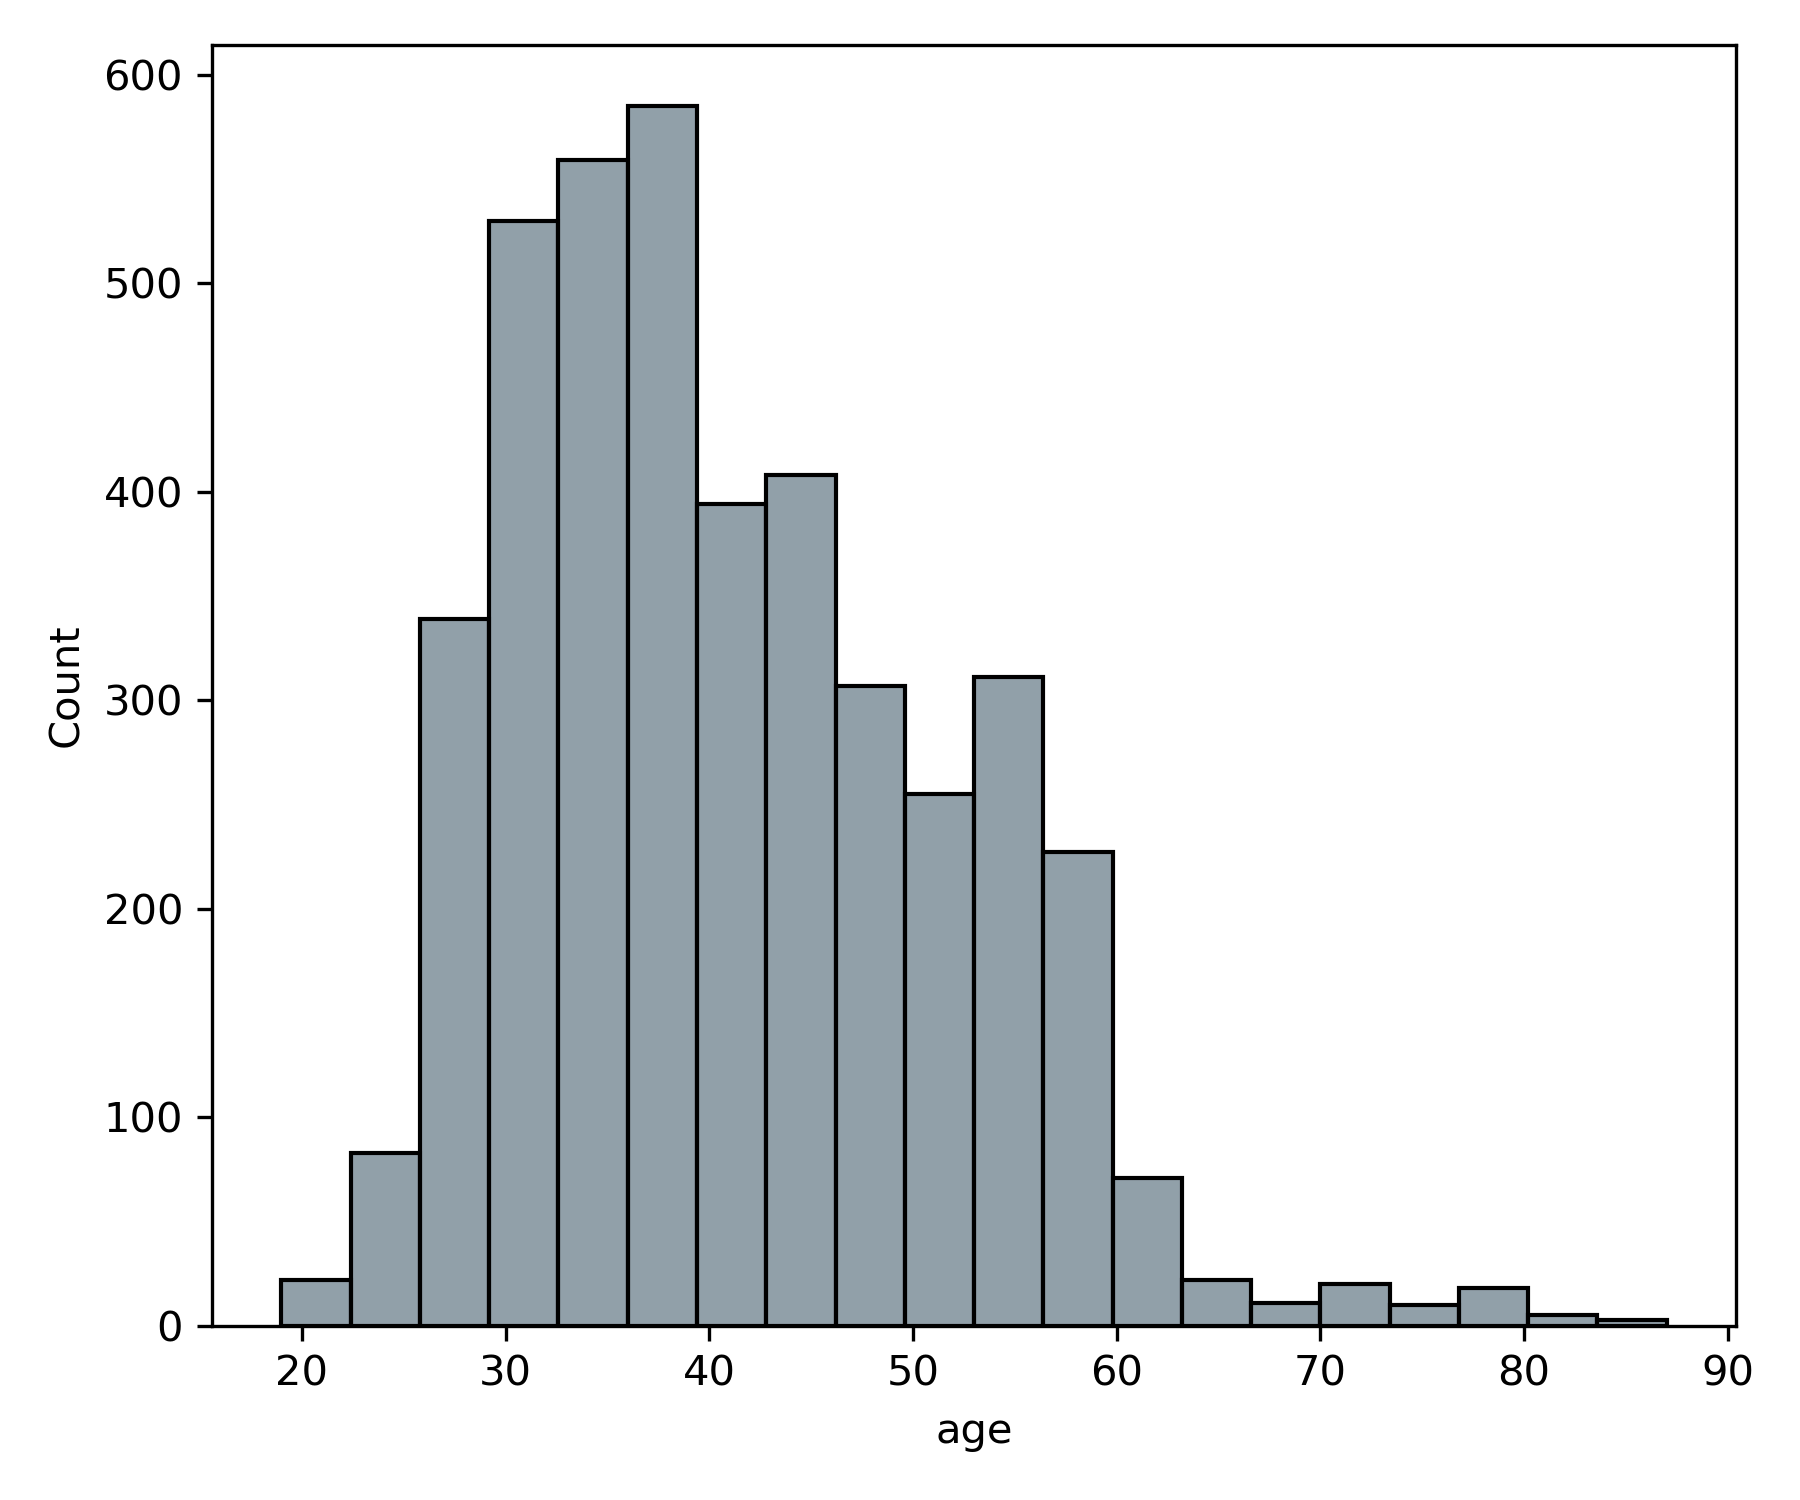
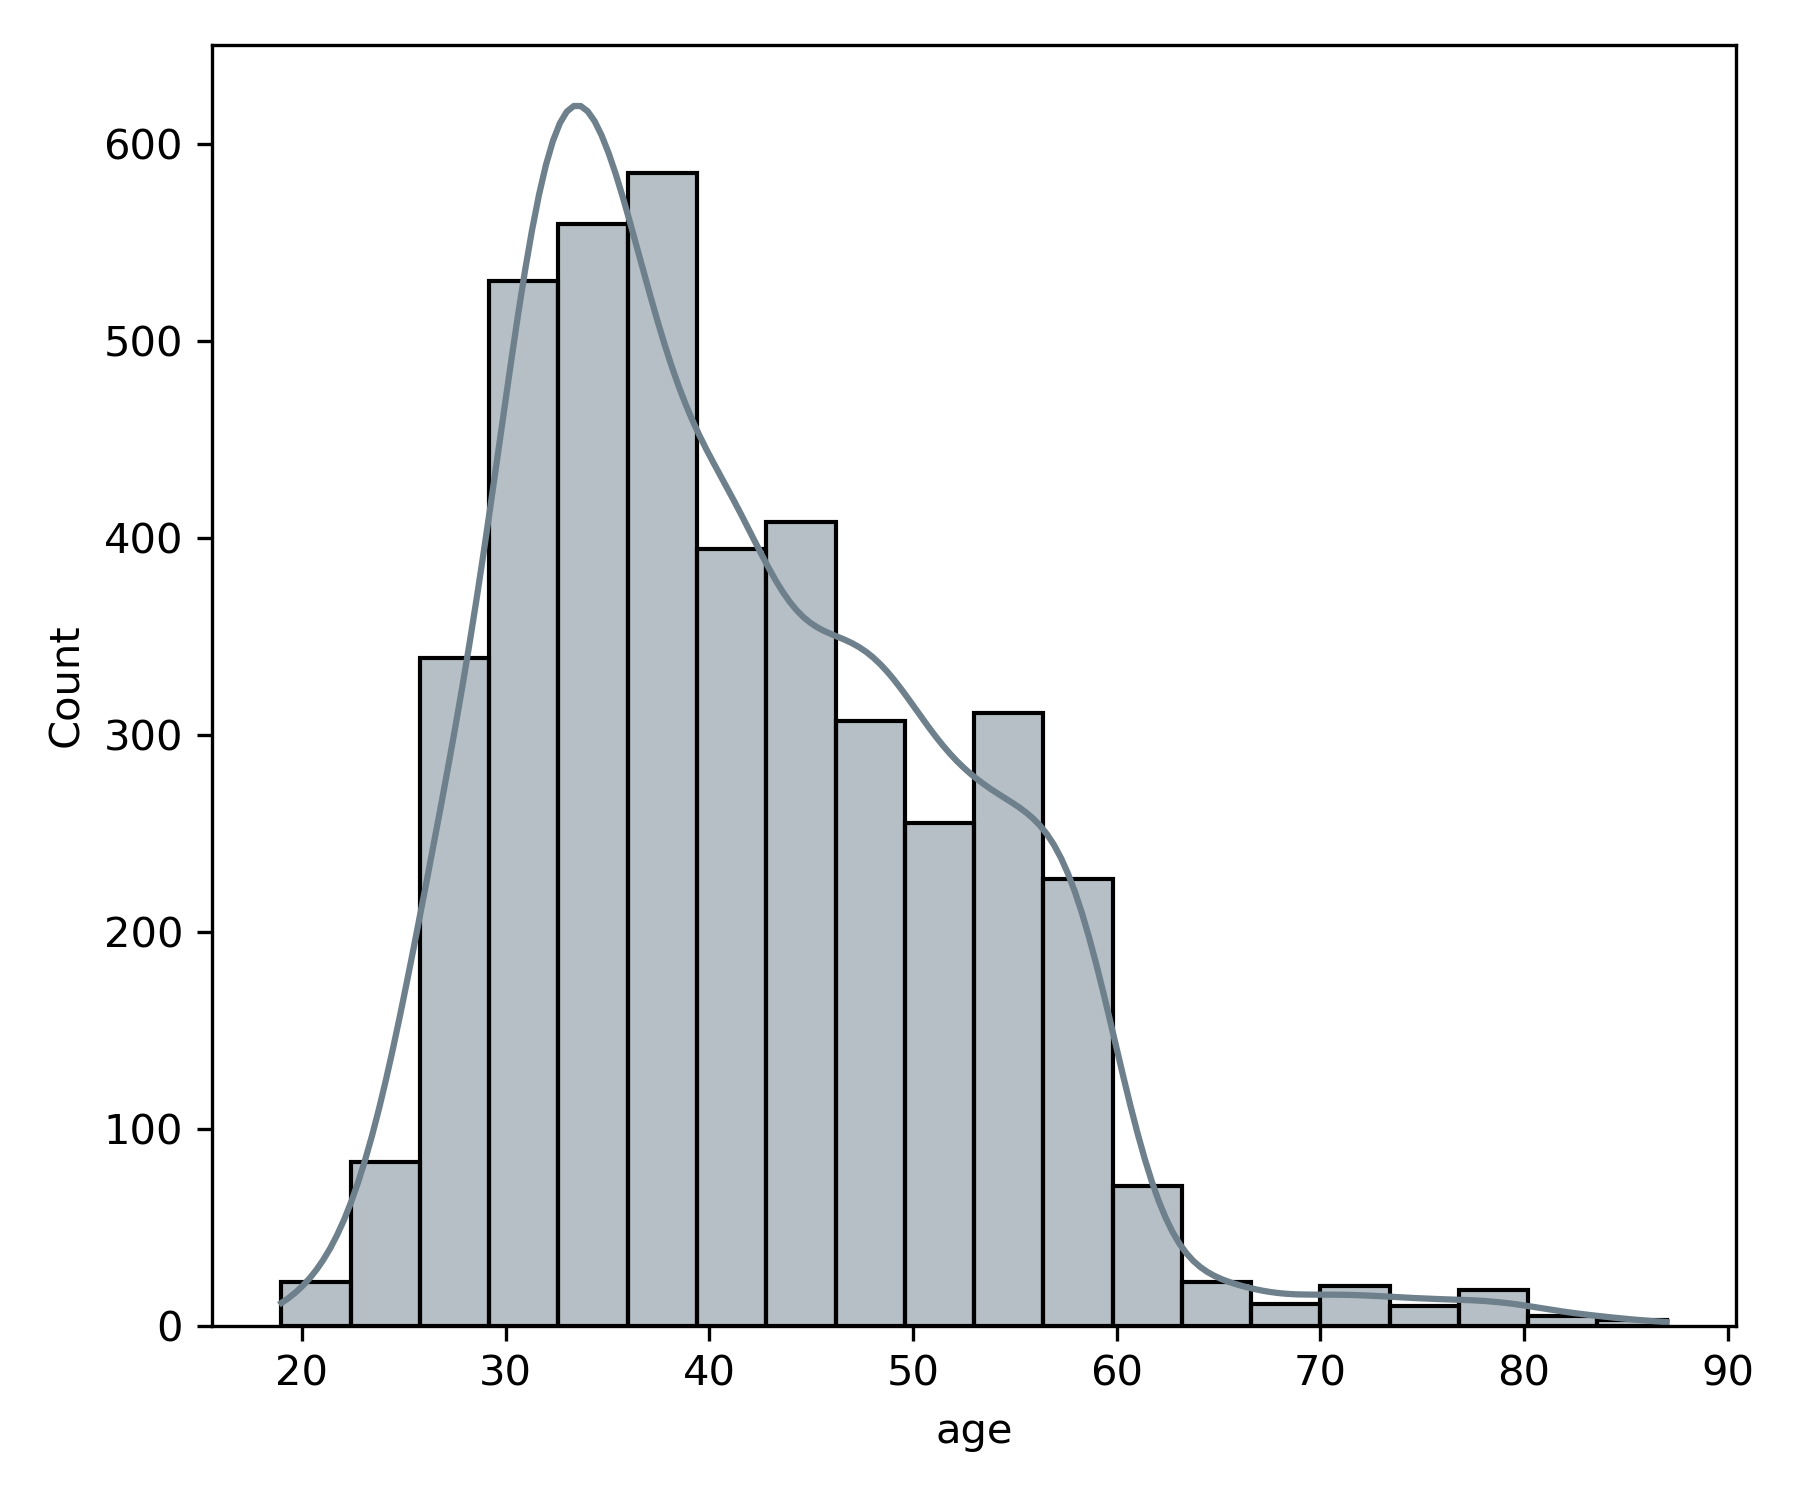
90% complete

diff --git a/content/posts/datascience/eda.md b/content/posts/datascience/eda.md
@@ -13,7 +13,7 @@ Twitter_Image: images/road.jpg
 
 ## What is EDA?
 
-EDA, or Exploratory Data Analysis, is the process of examining and understanding the structure of a dataset.  It's a critical part of any machine learning project and it is the tool in your toolbox that allows you to approach data you've never need before, and get comfortable with all sorts of charicteristics.
+EDA, or Exploratory Data Analysis, is the process of examining and understanding the structure of a dataset.  It's a critical part of any machine learning project and it is the tool in your toolbox that allows you to approach data you've never seen before, and get comfortable with all sorts of charicteristics.
 
 I find that a lot of people jump right into their data without first properly performing EDA.  Especially after they've done a few projects and think they know what they're doing.  To me, this is a critical first step that uncovers so manny hidden gems in the data it's indespensible.
 
@@ -260,24 +260,42 @@ sns.boxplot(x="y", y="duration", data=df, showfliers=True)
 
 ![Box Plot]({static}/images/eda_box.png)  
 
-Utilizing this graphic, we can see that both the median (line in the center of the box) as well the innerquartile range (IQR), or the upper and lower portions of the box as a whole, is greater for the `yes` than the `no` values.
+Utilizing this graphic, we can see that both the median (line in the center of the box) as well the interquartile range (IQR), or the upper and lower portions of the box as a whole, is greater for the `yes` than the `no` values.
+
+A fantastic write up on Towards Data Science on how to interpret box plots: [Understanding Boxplots](https://towardsdatascience.com/understanding-boxplots-5e2df7bcbd51)
 
 #### Histograms
 
-
+Histograms show the distribution of data of a single variable in "bins" or groups of data based on the frequency of the values occorance. Those not familar with them might have a a harder time reading these at first becase they can be mixed up with bar charts.  However, a bar chart is plotting two different variables on the *X-Axis* and *Y-Axis*, where as the *X-Axis* in a histogram is the bin and the *Y-Axis* is the count in that bin. 
 
 ```python
-sns.histplot(x='age', data=df, bins=20)
+sns.histplot(x='age', data=df, bins=20, kde=True)
 ```
 
 ![Histogram]({static}../../images/eda_hist.png)  
 
+When you look at the `age` variable plotted with a histogram, you can see really clearly that the amount of people in the data set with ages between 30 and 40 have the highest frequency.  Because the histogram is not centered, we call this skewness.  In this case, the skew is referred to as [**Right Skewed**](https://en.wikipedia.org/wiki/Skewness) because the right tail is longer.
+
 ### Bivariate Plots
 
+#### Correlation Matrix
+
+The absolute must bivariate (or multi-variate) plot you need to run is the correlation matrix.  This is a matrix that shows the correlation between all the variables in the dataset.  It will help you identify which variables are strongly correlated, for cases like simple linear regression, or those that are not correlated, for cases when you're trying to models with multiple features adding to your models performance.
+
+```python
+corr = df.corr()
+f, ax = plt.subplots(figsize=(12, 8))
+sns.heatmap(corr, annot=True, square=False, ax=ax, linewidth = 1)
+plt.title('Pearson Correlation of Features')
+```
+
+![Correlation Matrix]({static}../../images/eda_corr.png)  
+
+For the most part there is not any variables that are strongly correlated with the exception of `pdays` and `previous` with a `0.62` positive correlation value between them.  It would be valuable to understand why these are and if they're related to similar actions.
 
 ## Conclusion
 
-EDA is a very powerful technique that you should get comfortable with and you should do every time you start workign on a new dataset.  There are plenty of other tecniques out there that you can add to these basics.  Go out there, explore and get to know your data before you jump into machine learning.
+EDA is a very powerful technique that you should get comfortable with and should do every time you start workign on a new dataset.  There are plenty of other tecniques out there that you can add to these basics.  Go out there, explore and get to know your data before you jump into machine learning.
 
 All the code above is avaiable in [Github](https://github.com/broepke/EDA).
 
